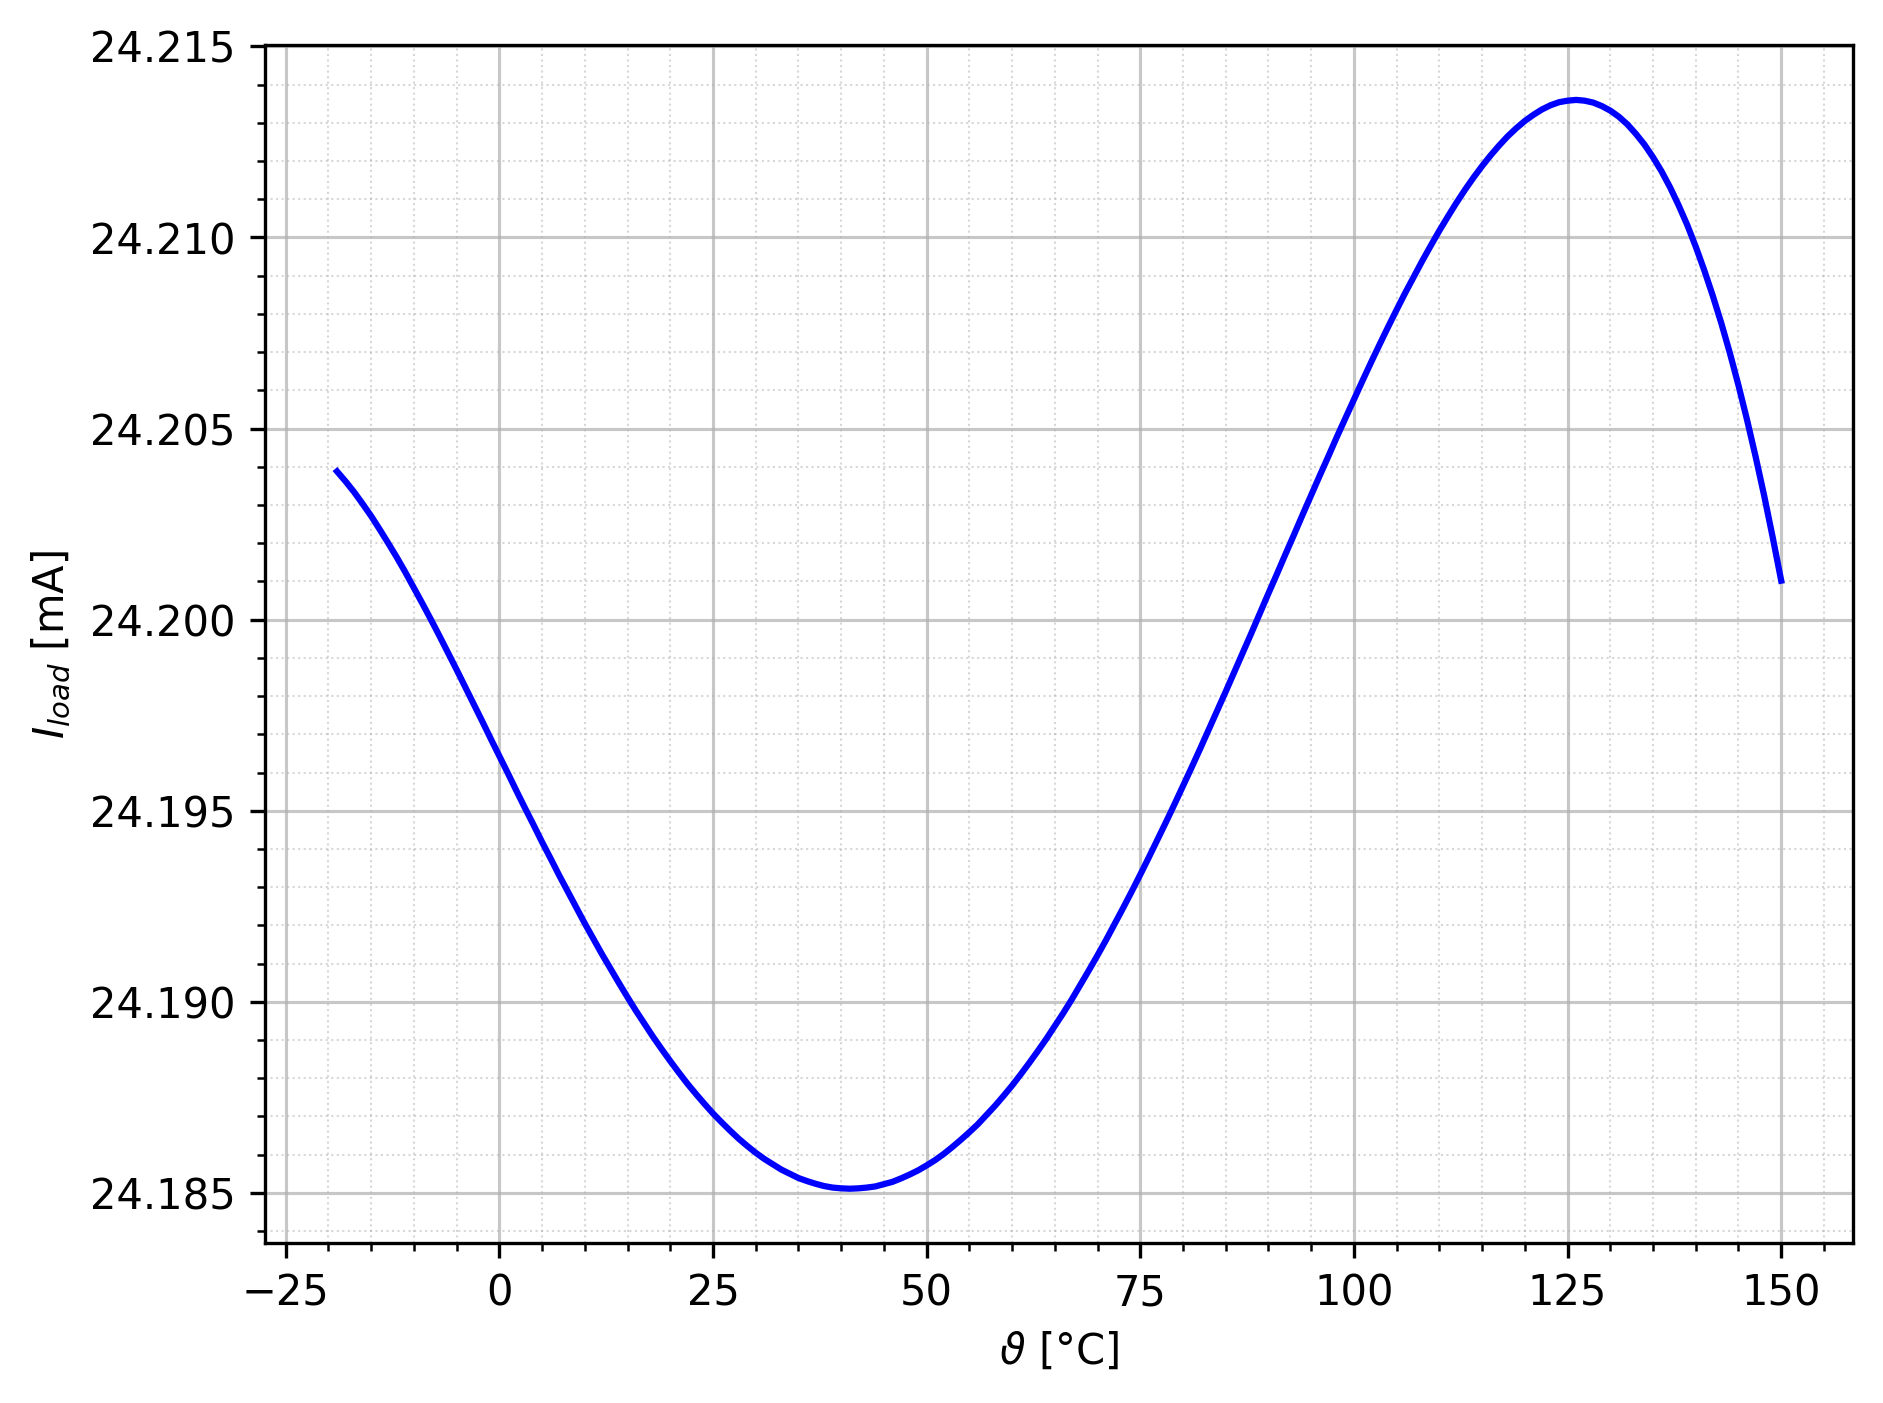
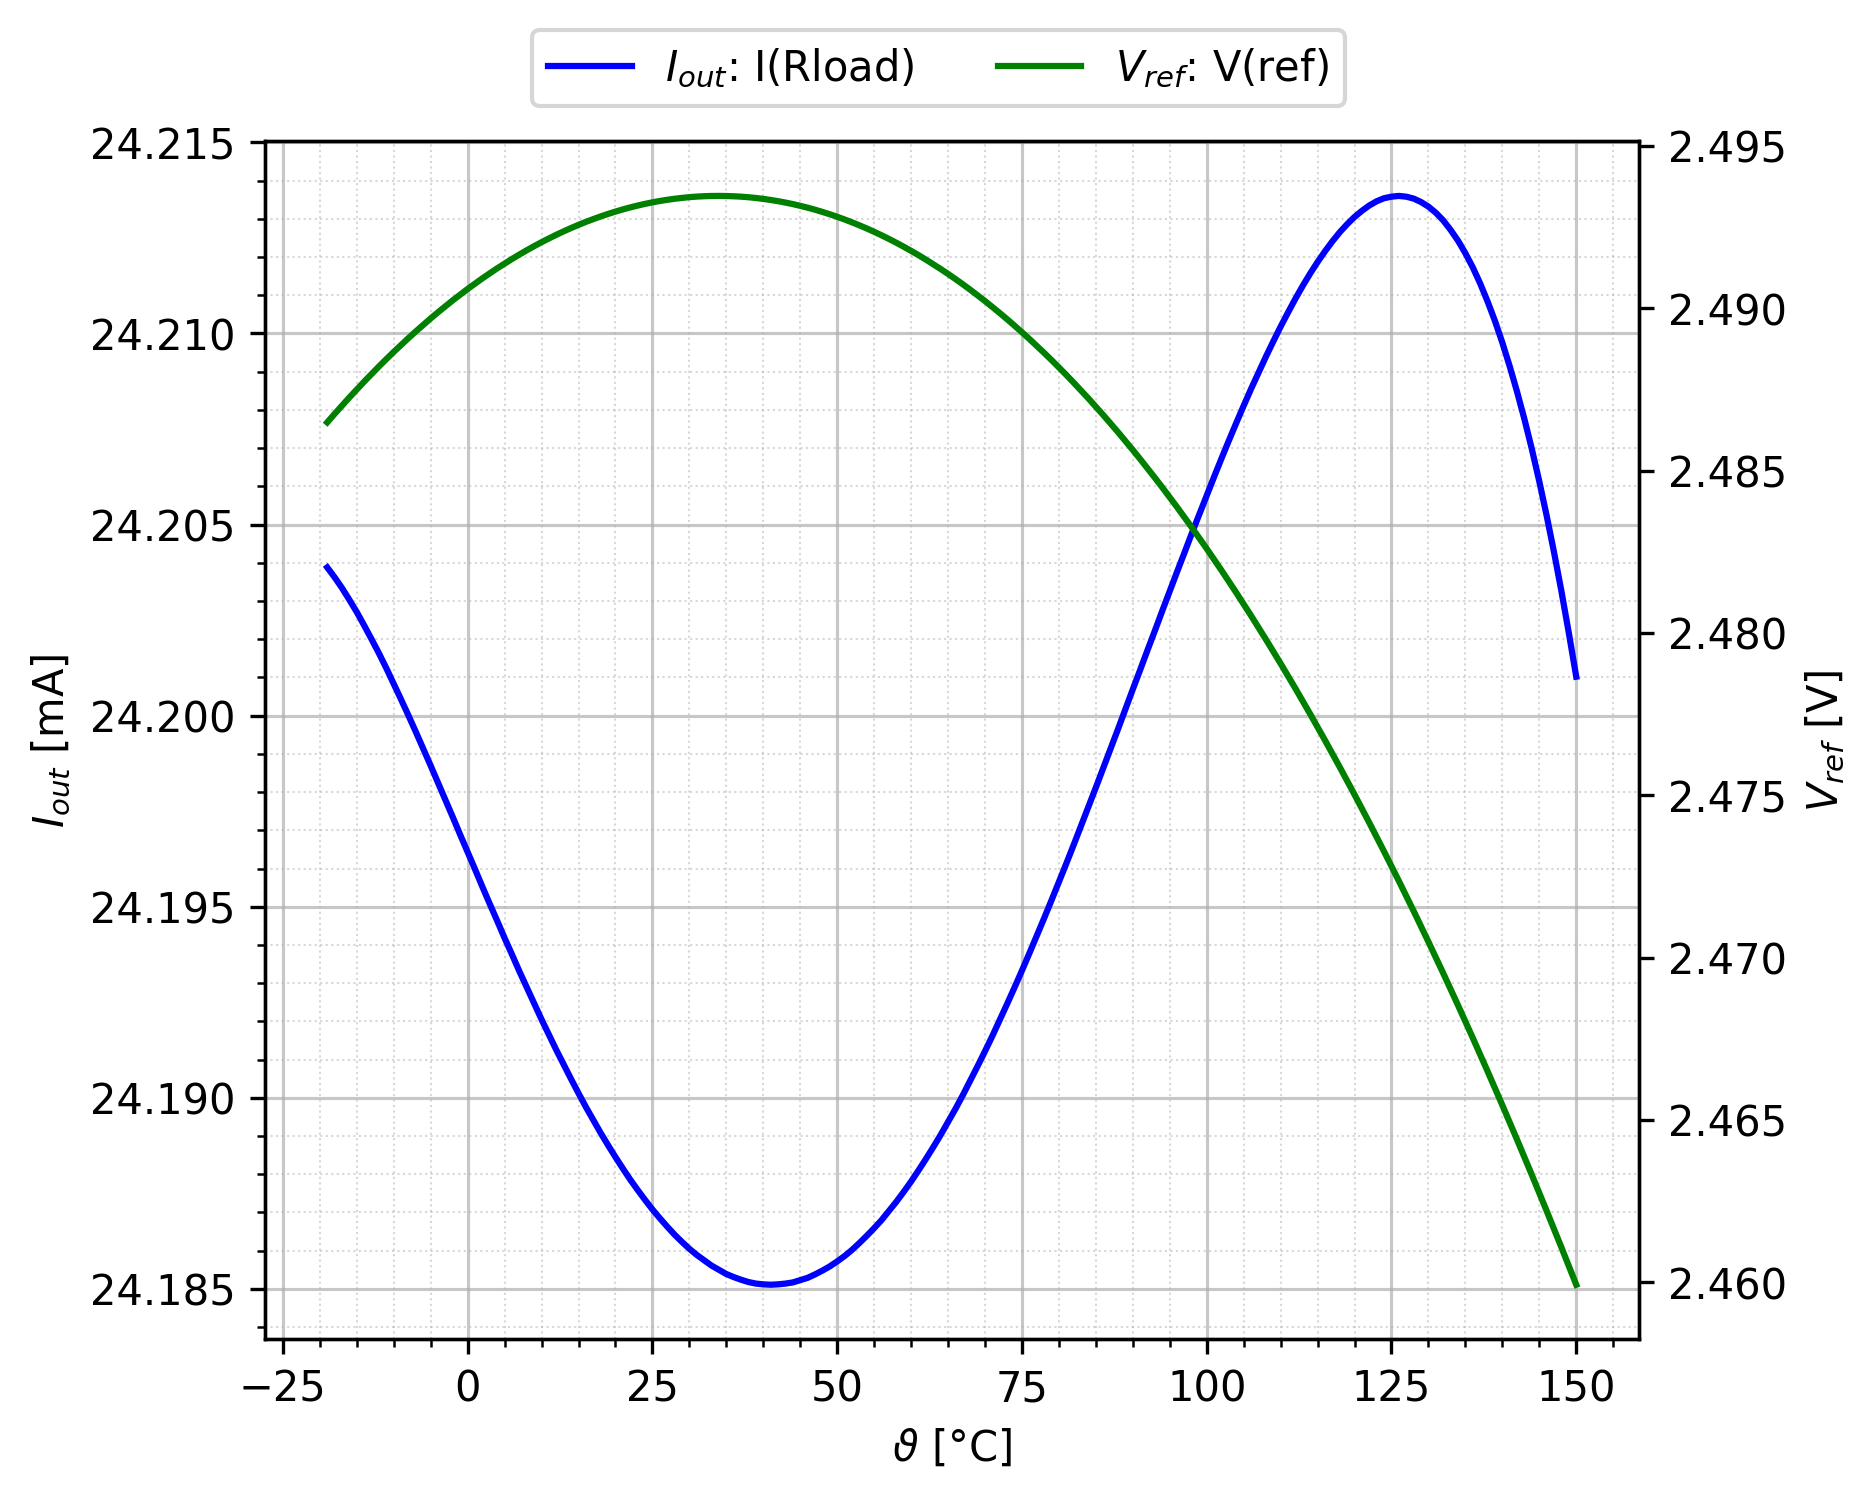
ztratil jsem to

Changed region(s): [[0.0, 0.0, 0.9893, 0.9808], [0.5874, 0.7662, 0.6493, 0.7969], [0.371, 0.6436, 0.4019, 0.6743]]

diff --git a/plot_parser/ltspice_plotter.py b/plot_parser/ltspice_plotter.py
@@ -2,26 +2,26 @@ from matplotlib import pyplot as plt
 import pandas as pd
 import os
 
-INP_PATHS = ['../2_experiment/data/irload.csv','../2_experiment/data/sqrt_s_ntot.csv']
-SERIES_NAMES = ['$I_{load}$', '$I_{ef}$']  # Names for each series
-SERIES_COLORS = ['blue', 'green']  # Colors for each series
+INP_PATHS = ['temp/1a_experiment.csv', 'temp/1a_experiment_Vref.csv']
+SERIES_NAMES = [r'$I_{out}$',r'$V_{ref}$']  # Names for each series
+SERIES_COLORS = ['blue','green']  # Colors for each series
 SECONDARY_AXIS_SERIES = [False, True]  # Specify True for series to be plotted on the secondary y-axis
-LTSPICE_FILE_NAME = "2_experiment_irload_ief"
-X_AXIS_TITLE = r"$f$"
-Y_AXIS_TITLE = "$I_{load}$, proud zátěží"
-Y_AXIS_SECONDARY_TITLE = "$I_{ef}$, šumový proud"
-X_AXIS_UNIT = "Hz"  # Unit for the x-axis (optional)
+LTSPICE_FILE_NAME = "1a_experiment"
+X_AXIS_TITLE = r"$\vartheta$"
+Y_AXIS_TITLE = r"$I_{out}$"
+Y_AXIS_SECONDARY_TITLE = r"$V_{ref}$"
+X_AXIS_UNIT = "°C"  # Unit for the x-axis (optional)
 Y_AXIS_UNIT = r"A"  # Unit for the primary y-axis (optional)
-Y_AXIS_SECONDARY_UNIT = r"A"  # Unit for the secondary y-axis (optional)
+Y_AXIS_SECONDARY_UNIT = 'V'  # Unit for the secondary y-axis (optional)
 LOG_X_AXIS = False  # Set to True to use a logarithmic scale for the x-axis
 LOG_Y_AXIS = False  # Set to True to use a logarithmic scale for the primary y-axis
 LOG_Y_AXIS_SECONDARY = False  # Set to True to use a logarithmic scale for the secondary y-axis
 ENABLE_PRIMARY_GRID = True  # Set to True to enable primary grid
 ENABLE_SECONDARY_GRID = True  # Set to True to enable secondary grid
-ENGINEERING_NOTATION_X = True  # Enable engineering notation for the x-axis
-ENGINEERING_NOTATION_Y = True  # Enable engineering notation for the primary y-axis
-ENGINEERING_NOTATION_Y_SECONDARY = True  # Enable engineering notation for the secondary y-axis
-ENABLE_LEGEND = True  # Set to True to enable legend
+ENGINEERING_NOTATION_X = False 
+ENGINEERING_NOTATION_Y = True 
+ENGINEERING_NOTATION_Y_SECONDARY = True
+ENABLE_LEGEND = True  
 
 SI_PREFIXES = {
     -18: 'a', -15: 'f', -12: 'p', -9: 'n', -6: 'u', -3: 'm', 0: '', 3: 'k', 6: 'M', 9: 'G', 12: 'T'

diff --git a/plot_parser/numerical_derivator.py b/plot_parser/numerical_derivator.py
@@ -1,0 +1,16 @@
+import pandas as pd
+import numpy as np
+
+data = pd.read_csv('temp/1a_experiment.csv')
+
+dx = np.gradient(data['temperature'])
+dy = np.gradient(data['I(Rload)'])
+derivative = dy / dx
+
+# pridani derivace
+data['dI_dT'] = derivative
+
+# smazani sloupce
+data = data.drop(columns=['I(Rload)'])
+
+data.to_csv('temp/output.csv', index=False)

diff --git a/plot_parser/ltspice_to_csv.py b/plot_parser/ltspice_to_csv.py
@@ -4,7 +4,7 @@ Reads ltspice planetext file and outputs it as csv to temp folder in plot_parser
 import os
 import pandas as pd
 
-INP_PATH = f'../0_experiment/ltspice/0_experiment.txt'
+INP_PATH = f'../1_experiment/1a/ltspice/1a_experiment_Vref.txt'
 LTSPICE_FILE_NAME = INP_PATH.split('/')[-1].split('.')[0]
 
 def ltspice_to_csv(inp_path):
